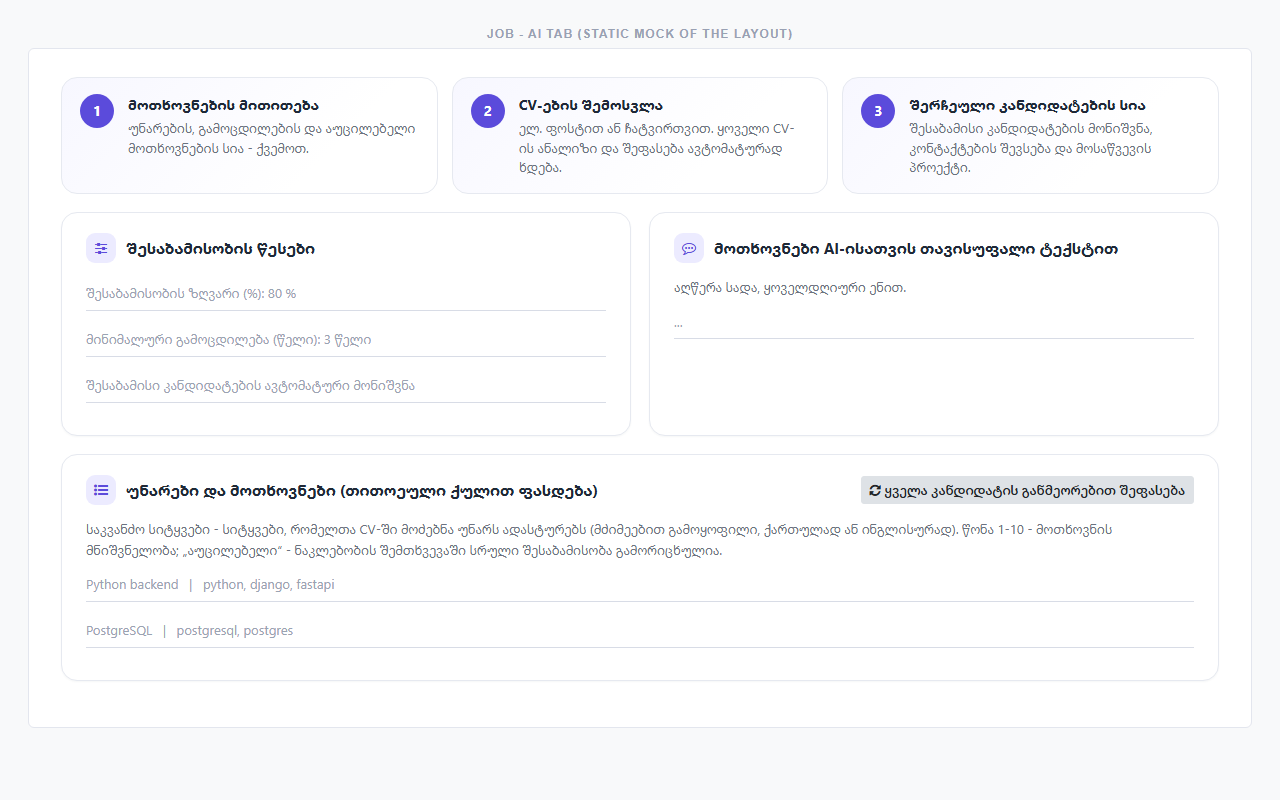
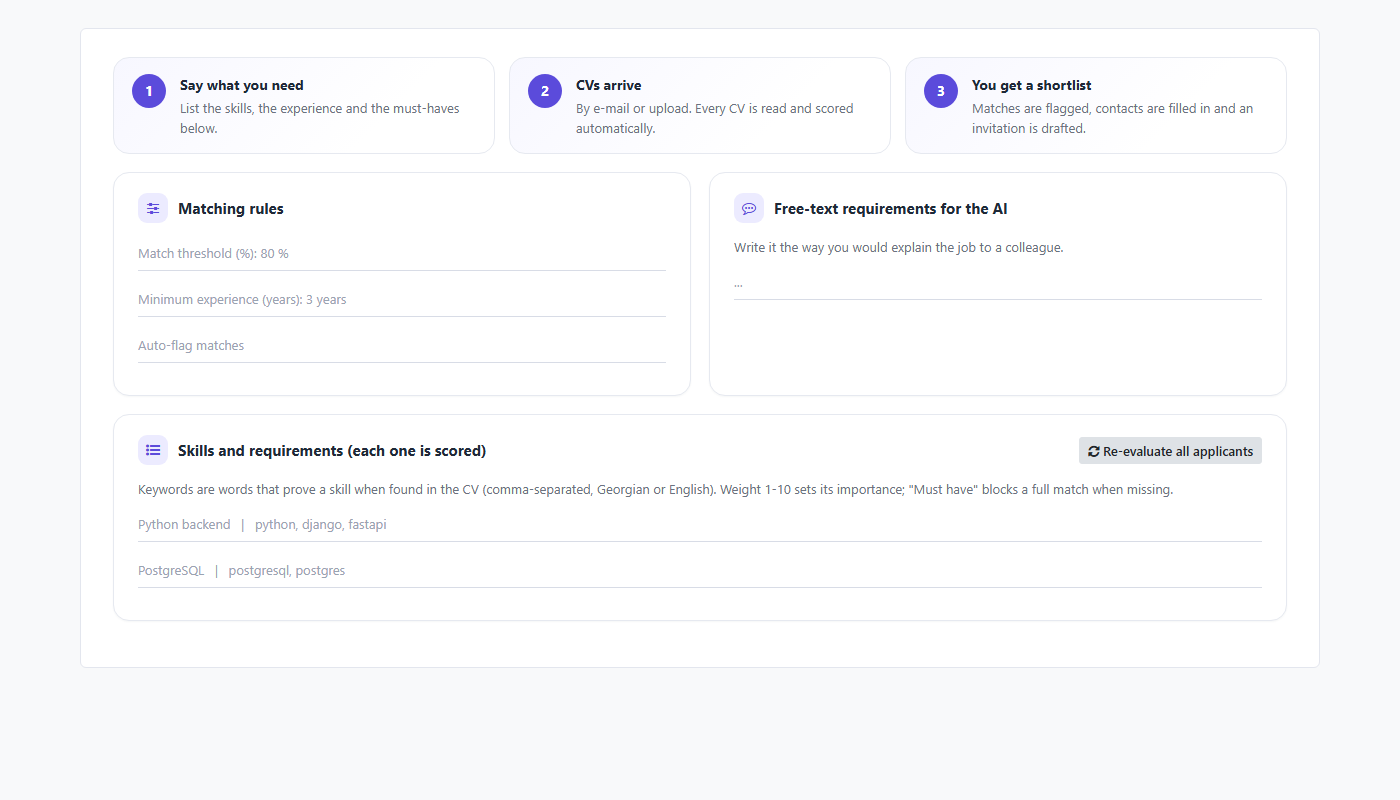
Read settings fresh per analysis; English screenshots in the README
- The engine reads its ir.config_parameter rows with plain SQL at the start
  of every analysis instead of the per-process ORM cache, so a setting
  changed while the background worker runs applies to the next CV
  (verified: language switched en -> ka without a restart).
- README screenshots are now English, with the Georgian report kept as an
  example of the localisation.

diff --git a/models/ai_engine.py b/models/ai_engine.py
@@ -79,10 +79,16 @@ class HrRecruitmentAiEngine(models.AbstractModel):
     # ------------------------------------------------------------------ #
     @api.model
     def _settings(self):
-        ICP = self.env["ir.config_parameter"].sudo()
+        # Read straight from the table, not through the ORM's per-process cache: the
+        # background worker runs for minutes outside any request, and a setting changed
+        # meanwhile (from the UI, another worker process or a script) must apply to the
+        # next CV. It is a dozen rows once per analysis.
+        self.env.cr.execute(
+            "SELECT key, value FROM ir_config_parameter WHERE key LIKE %s", (PARAM_PREFIX + "%",))
+        stored = {key[len(PARAM_PREFIX):]: value for key, value in self.env.cr.fetchall()}
         out = {}
         for key, default in DEFAULTS.items():
-            raw = ICP.get_param(PARAM_PREFIX + key)
+            raw = stored.get(key)
             if raw in (None, False, ""):
                 out[key] = default
                 continue

diff --git a/README.md b/README.md
@@ -12,6 +12,9 @@ no CV ever leaves your server. Fully translated into Georgian.
 | ![Job positions](docs/screenshots/job_positions.png) | ![Job criteria](docs/screenshots/job_criteria.png) |
 | Job positions dashboard | A job's criteria: skills with keywords, weights and must-haves |
 
+The interface and the AI's own texts are also fully Georgian:
+[the same report in Georgian](docs/screenshots/applicant_report_ka.png).
+
 **Documents:** [INSTALL.md](INSTALL.md) (installing on a real Odoo 19 or another
 computer) · [HOW_IT_WORKS.md](HOW_IT_WORKS.md) (the whole pipeline, top to bottom).
 
